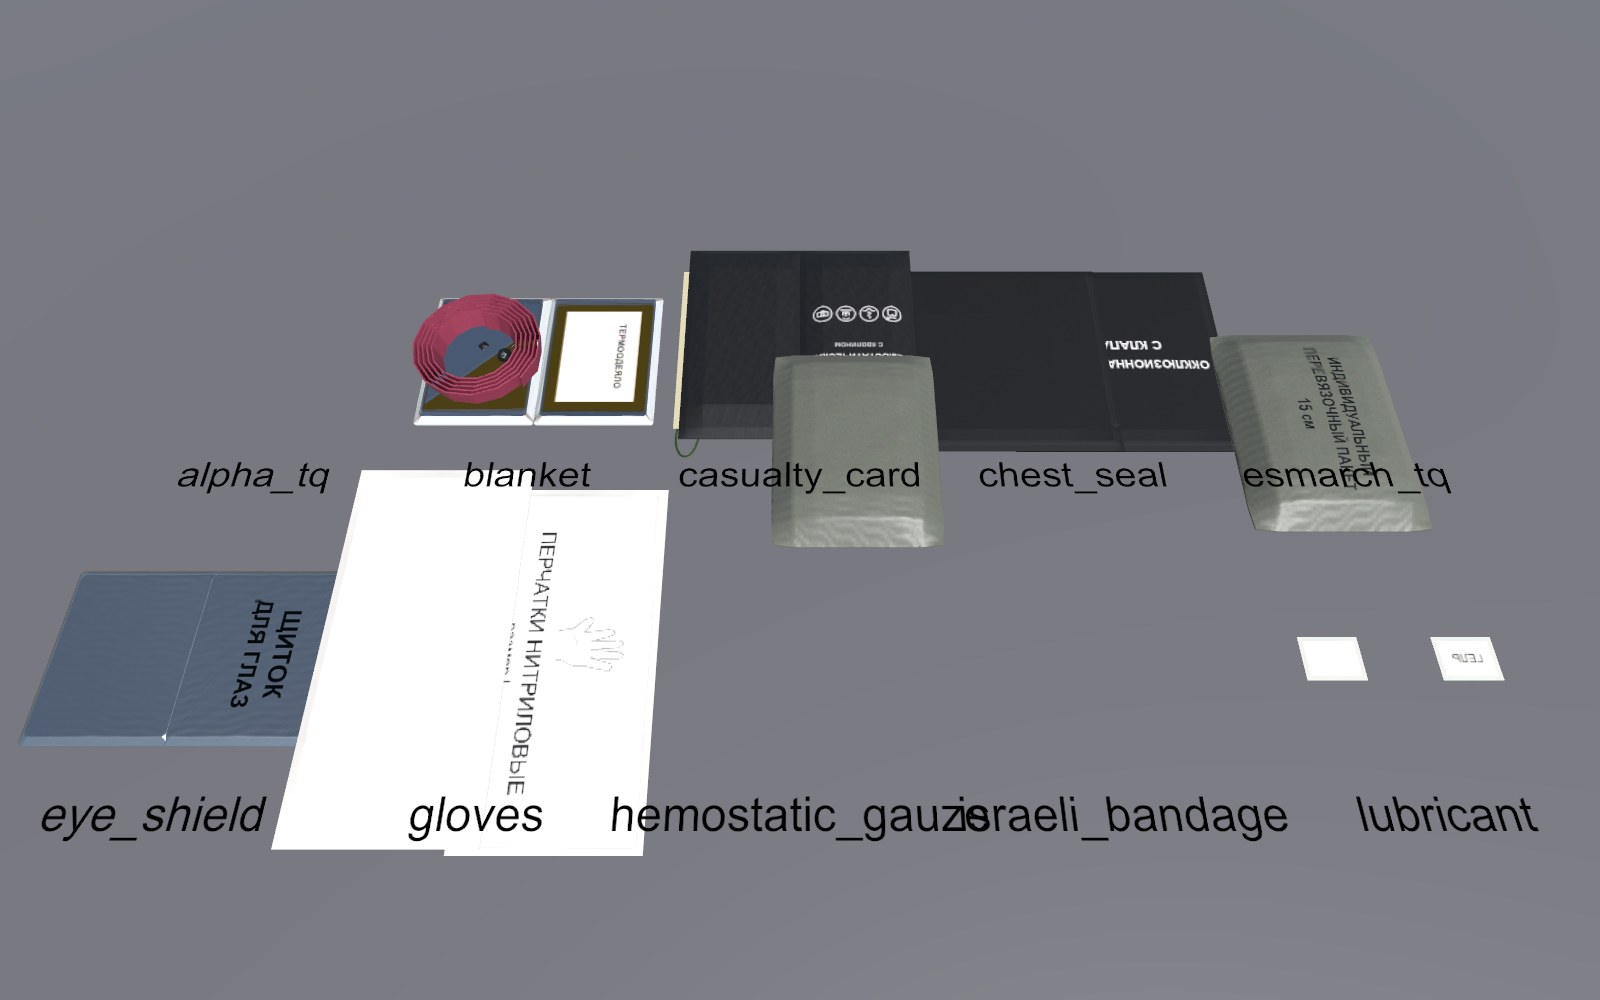
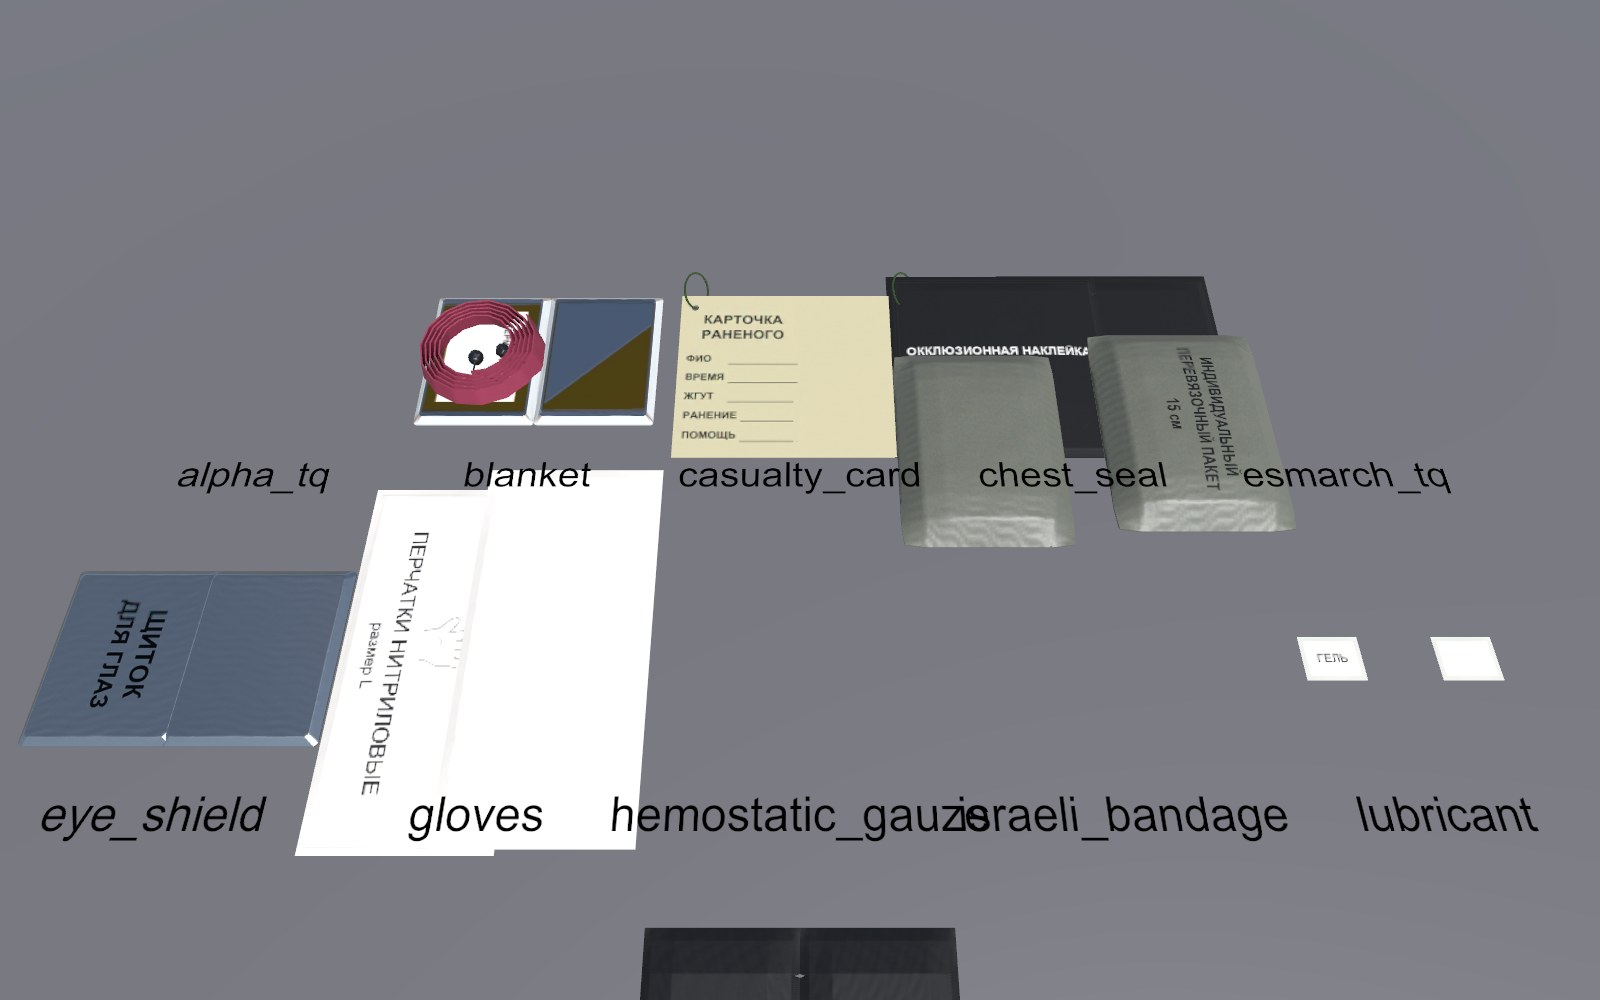
w9d: kit draws 18->2 (combined snapshot when settled), QuestSceneAudit.ArtRules (tris/materials/ASTC<=1024/no mesh colliders)

diff --git a/Assets/Scripts/Runtime/Treatment/IfakArt.cs b/Assets/Scripts/Runtime/Treatment/IfakArt.cs
@@ -106,6 +106,89 @@ namespace FieldMedic.Treatment
             }
         }
 
+        // ------------------------------------------------------------------ draw calls (Quest)
+        readonly Dictionary<int, GameObject> _snapshots = new Dictionary<int, GameObject>();
+        readonly List<Renderer> _parts = new List<Renderer>();
+        /// <summary>Kit draw calls right now (merged snapshot = one per material).</summary>
+        public int DrawCalls
+        {
+            get
+            {
+                int n = 0;
+                foreach (var r in GetComponentsInChildren<Renderer>(false))
+                    if (r.enabled && r.transform.IsChildOf(Root) && IsKitPart(r)) n += r.sharedMaterials.Length;
+                return n;
+            }
+        }
+
+        /// <summary>
+        /// While the kit is folded or fully open nothing in it moves: its ~18 part draws are replaced by one combined
+        /// mesh per material (built once per state, the model is imported readable for this). Moving again (opening)
+        /// shows the parts.
+        /// </summary>
+        public void Settle(bool settled)
+        {
+            if (Root == null) return;
+            if (_parts.Count == 0)
+                foreach (var r in Model.GetComponentsInChildren<MeshRenderer>(true))
+                    if (IsKitPart(r)) _parts.Add(r);
+            int key = Open01 > 0.5f ? 1 : 0;
+            foreach (var kv in _snapshots) kv.Value.SetActive(settled && kv.Key == key);
+            if (!settled) { foreach (var r in _parts) if (r != null) r.enabled = true; return; }
+            if (!_snapshots.TryGetValue(key, out var snap) || snap == null)
+            {
+                snap = Combine(key == 1 ? "Merged_Open" : "Merged_Closed");
+                if (snap == null) return; // meshes not readable: keep the parts
+                _snapshots[key] = snap;
+            }
+            snap.SetActive(true);
+            foreach (var r in _parts) if (r != null) r.enabled = false;
+        }
+
+        /// <summary>The kit's own meshes — not the items riding on its slots, not grab handles.</summary>
+        static bool IsKitPart(Renderer r) =>
+            r.GetComponentInParent<MedItem>(true) == null && r.GetComponentInParent<FieldMedic.Interaction.Grabbable>(true) == null;
+
+        GameObject Combine(string name)
+        {
+            var groups = new Dictionary<Material, List<CombineInstance>>();
+            var toRoot = Root.worldToLocalMatrix;
+            foreach (var r in _parts)
+            {
+                if (r == null || !r.gameObject.activeInHierarchy) continue;
+                var mf = r.GetComponent<MeshFilter>();
+                if (mf == null || mf.sharedMesh == null) continue;
+                if (!mf.sharedMesh.isReadable) { Debug.LogWarning("[FMVR] IFAK combine: mesh not readable " + mf.sharedMesh.name); return null; }
+                var mats = r.sharedMaterials;
+                for (int i = 0; i < mats.Length && i < mf.sharedMesh.subMeshCount; i++)
+                {
+                    if (mats[i] == null) continue;
+                    if (!groups.TryGetValue(mats[i], out var list)) groups[mats[i]] = list = new List<CombineInstance>();
+                    list.Add(new CombineInstance { mesh = mf.sharedMesh, subMeshIndex = i, transform = toRoot * r.transform.localToWorldMatrix });
+                }
+            }
+            var go = new GameObject(name);
+            go.transform.SetParent(Root, false);
+            var subs = new List<CombineInstance>();
+            var order = new List<Material>();
+            foreach (var kv in groups)
+            {
+                var part = new Mesh { name = name + "_" + kv.Key.name, indexFormat = UnityEngine.Rendering.IndexFormat.UInt32 };
+                part.CombineMeshes(kv.Value.ToArray(), true, true);
+                subs.Add(new CombineInstance { mesh = part, transform = Matrix4x4.identity });
+                order.Add(kv.Key);
+            }
+            var mesh = new Mesh { name = name, indexFormat = UnityEngine.Rendering.IndexFormat.UInt32 };
+            mesh.CombineMeshes(subs.ToArray(), false, false);
+            mesh.RecalculateBounds();
+            go.AddComponent<MeshFilter>().sharedMesh = mesh;
+            var mr = go.AddComponent<MeshRenderer>();
+            mr.sharedMaterials = order.ToArray();
+            mr.shadowCastingMode = UnityEngine.Rendering.ShadowCastingMode.Off;
+            Debug.Log($"[FMVR] IFAK {name}: {_parts.Count} parts → {order.Count} draw(s), {mesh.triangles.Length / 3} tris");
+            return go;
+        }
+
         public Transform Slot(string name) => _slots.TryGetValue(name, out var t) ? t : null;
 
         /// <summary>A seat on a delivered slot: item Z along the slot's long axis (+Y of the empty), item Y out of the

diff --git a/Assets/Editor/QuestSceneAudit.cs b/Assets/Editor/QuestSceneAudit.cs
@@ -207,6 +207,51 @@ namespace FieldMedic.EditorTools
             return p;
         }
 
+        // ------------------------------------------------------------------ imported item art (w9d)
+        public const int ArtItemTris = 4000, ArtKitTris = 8000, ArtTotalTris = 60000, ArtMaxTexture = 1024, ArtMaxMaterials = 24;
+
+        /// <summary>Quest budget of Resources/Art (the IFAK + item models): triangles per prefab (all states counted),
+        /// total, ≤ 2 materials per renderer, textures ASTC ≤ 1024 on Android, no mesh colliders.</summary>
+        public static List<string> ArtRules(out string summary)
+        {
+            var p = new List<string>();
+            var prefabs = Resources.LoadAll<GameObject>(FieldMedic.Treatment.ArtModels.ResourceFolder);
+            int total = 0;
+            var mats = new HashSet<Material>();
+            foreach (var pf in prefabs)
+            {
+                if (pf.GetComponentInChildren<MeshCollider>(true) != null) p.Add($"art {pf.name}: mesh collider");
+                int tris = 0;
+                foreach (var mf in pf.GetComponentsInChildren<MeshFilter>(true))
+                    if (mf.sharedMesh != null)
+                        for (int s = 0; s < mf.sharedMesh.subMeshCount; s++) tris += (int)mf.sharedMesh.GetIndexCount(s) / 3;
+                int cap = pf.name == FieldMedic.Treatment.ArtModels.Pouch.id ? ArtKitTris : ArtItemTris;
+                if (tris > cap) p.Add($"art {pf.name}: {tris} tris > {cap}");
+                total += tris;
+                foreach (var r in pf.GetComponentsInChildren<Renderer>(true))
+                {
+                    if (r.sharedMaterials.Length > 2) p.Add($"art {pf.name}/{r.name}: {r.sharedMaterials.Length} materials");
+                    foreach (var m in r.sharedMaterials)
+                    {
+                        if (m == null) { p.Add($"art {pf.name}/{r.name}: missing material"); continue; }
+                        mats.Add(m);
+                        foreach (var prop in new[] { "_BaseMap", "_BumpMap", "_MetallicGlossMap", "_OcclusionMap" })
+                        {
+                            var tex = m.HasProperty(prop) ? m.GetTexture(prop) : null;
+                            if (tex == null || !(AssetImporter.GetAtPath(AssetDatabase.GetAssetPath(tex)) is TextureImporter ti)) continue;
+                            var a = ti.GetPlatformTextureSettings("Android");
+                            if (!a.overridden || a.maxTextureSize > ArtMaxTexture) p.Add($"art texture {tex.name}: Android max {a.maxTextureSize} (≤ {ArtMaxTexture})");
+                            if (!a.format.ToString().StartsWith("ASTC")) p.Add($"art texture {tex.name}: {a.format} (ASTC expected)");
+                        }
+                    }
+                }
+            }
+            if (total > ArtTotalTris) p.Add($"art total {total} tris > {ArtTotalTris}");
+            if (mats.Count > ArtMaxMaterials) p.Add($"art materials {mats.Count} > {ArtMaxMaterials}");
+            summary = $"imported art: {prefabs.Length} prefabs, {total} tris (all states), {mats.Count} materials";
+            return p.Distinct().ToList();
+        }
+
         // ------------------------------------------------------------------ run
         public static void RunBatch()
         {
@@ -253,6 +298,8 @@ namespace FieldMedic.EditorTools
 
             problems.AddRange(ShaderRules());
             problems.AddRange(UrpRules());
+            problems.AddRange(ArtRules(out var artSummary));
+            notes.Add(artSummary);
 
             var sb = new StringBuilder();
             sb.AppendLine("QuestSceneAudit " + System.DateTime.Now.ToString("dd.MM HH:mm"));

diff --git a/Assets/Tests/EditorTools/ArtImportTests.cs b/Assets/Tests/EditorTools/ArtImportTests.cs
@@ -214,45 +214,14 @@ namespace FieldMedic.Tests
             finally { Object.DestroyImmediate(m); }
         }
 
-        /// <summary>Quest budget for the imported kit + items (task 5): tris, materials, ASTC ≤ 1024, no mesh colliders.</summary>
+        /// <summary>Quest budget for the imported kit + items (QuestSceneAudit.ArtRules, run by every build).</summary>
         [Test]
         public void ImportedArt_WithinQuestBudget()
         {
-            var prefabs = Resources.LoadAll<GameObject>(ArtModels.ResourceFolder);
-            if (prefabs.Length == 0) Assert.Ignore("no imported art (SourceAssets/Incoming not imported on this machine)");
-            int total = 0;
-            var mats = new System.Collections.Generic.HashSet<Material>();
-            foreach (var p in prefabs)
-            {
-                Assert.IsNull(p.GetComponentInChildren<MeshCollider>(true), p.name + ": no mesh colliders");
-                int tris = 0;
-                foreach (var mf in p.GetComponentsInChildren<MeshFilter>(true))
-                    for (int s = 0; s < mf.sharedMesh.subMeshCount; s++) tris += (int)mf.sharedMesh.GetIndexCount(s) / 3;
-                Assert.LessOrEqual(tris, p.name == ArtModels.Pouch.id ? 8000 : 4000, p.name + " triangles (all states)");
-                total += tris;
-                foreach (var r in p.GetComponentsInChildren<Renderer>(true))
-                {
-                    Assert.LessOrEqual(r.sharedMaterials.Length, 2, p.name + " materials per renderer");
-                    foreach (var m in r.sharedMaterials)
-                    {
-                        Assert.IsNotNull(m, p.name + " missing material");
-                        mats.Add(m);
-                        foreach (var prop in new[] { "_BaseMap", "_BumpMap", "_MetallicGlossMap" })
-                        {
-                            var tex = m.HasProperty(prop) ? m.GetTexture(prop) : null;
-                            if (tex == null) continue;
-                            var ti = (TextureImporter)AssetImporter.GetAtPath(AssetDatabase.GetAssetPath(tex));
-                            if (ti == null) continue;
-                            var a = ti.GetPlatformTextureSettings("Android");
-                            Assert.IsTrue(a.overridden && a.maxTextureSize <= 1024, tex.name + " Android ≤ 1024");
-                            StringAssert.StartsWith("ASTC", a.format.ToString(), tex.name + " ASTC on Quest");
-                        }
-                    }
-                }
-            }
-            Debug.Log($"[FMVR] imported art: {prefabs.Length} prefabs, {total} tris (all states), {mats.Count} materials");
-            Assert.LessOrEqual(total, 60000, "kit + items, every state counted");
-            Assert.LessOrEqual(mats.Count, 24, "materials (≈ one per delivery)");
+            if (Resources.LoadAll<GameObject>(ArtModels.ResourceFolder).Length == 0) Assert.Ignore("no imported art on this machine");
+            var problems = QuestSceneAudit.ArtRules(out var summary);
+            Debug.Log("[FMVR] " + summary);
+            CollectionAssert.IsEmpty(problems, string.Join(" | ", problems));
         }
 
         // ------------------------------------------------------------------ sky text rule

diff --git a/Assets/Editor/ArtImporter.cs b/Assets/Editor/ArtImporter.cs
@@ -127,7 +127,7 @@ namespace FieldMedic.EditorTools
             PrepareTextures(dir, folder, texAbs);
             AssetDatabase.Refresh();
             ApplyTextureSettings(dirAsset, IsCharacter(folder) ? 2048 : 1024);
-            ApplyModelSettings(fbxAsset);
+            ApplyModelSettings(fbxAsset, folder == ArtModels.Pouch.Source); // the kit combines its parts at runtime (draw calls)
             var model = AssetDatabase.LoadAssetAtPath<GameObject>(fbxAsset);
             if (model == null) { foreach (var r in results) r.notes.Add("model did not import"); return; }
             var mats = BuildMaterials(fbxAsset, dirAsset, folder);
@@ -205,7 +205,7 @@ namespace FieldMedic.EditorTools
         }
 
         /// <summary>Scale 1, no cameras/lights/animation, compressed mesh, no read/write, no colliders from the file.</summary>
-        public static void ApplyModelSettings(string fbxAsset)
+        public static void ApplyModelSettings(string fbxAsset, bool readable = false)
         {
             if (!(AssetImporter.GetAtPath(fbxAsset) is ModelImporter mi)) return;
             mi.globalScale = 1f;
@@ -215,7 +215,7 @@ namespace FieldMedic.EditorTools
             mi.importLights = false;
             mi.importAnimation = false;
             mi.animationType = ModelImporterAnimationType.None;
-            mi.isReadable = false;
+            mi.isReadable = readable;
             mi.meshCompression = ModelImporterMeshCompression.Medium;
             mi.addCollider = false;
             mi.importBlendShapes = false;

diff --git a/Assets/Tests/PlayMode/W9ArtTests.cs b/Assets/Tests/PlayMode/W9ArtTests.cs
@@ -146,6 +146,7 @@ namespace FieldMedic.Tests
             Assert.AreEqual("Slot_AlphaTQ", _pouch.Find(MedItemKind.AlphaTourniquet).homeSlot.parent.name);
             Assert.AreEqual("Slot_Esmarch", _pouch.Find(MedItemKind.EsmarchTourniquet).homeSlot.parent.name);
             Assert.AreEqual(0f, _pouch.Art.Open01, "starts folded on its back panel");
+            Assert.LessOrEqual(_pouch.Art.DrawCalls, 3, "closed kit drawn as one combined mesh per material");
             Assert.IsFalse(_pouch.Find<GauzeItem>().CanBeGrabbedBy(_bot.right), "main pouch locked while closed");
             Assert.IsTrue(_pouch.Find<TourniquetCAT>().CanBeGrabbedBy(_bot.right), "quick pouch always open");
             var back = _pouch.Art.BackPanel.position;
@@ -153,6 +154,7 @@ namespace FieldMedic.Tests
             Assert.IsTrue(_pouch.IsOpen, "ripped open by the pull tab");
             yield return new WaitForSeconds(0.8f);
             Assert.AreEqual(1f, _pouch.Art.Open01, 1e-3f, "panels unfolded");
+            Assert.LessOrEqual(_pouch.Art.DrawCalls, 3, "open kit settled: combined again");
             Assert.Less(Vector3.Distance(back, _pouch.Art.BackPanel.position), 1e-3f, "back panel stays on the vest");
             foreach (var it in _pouch.Items)
                 Assert.Less(Vector3.Distance(it.transform.position, it.homeSlot.position), 0.002f, it.name + " moved with its panel");

diff --git a/Assets/Scripts/Runtime/Treatment/PouchFlap.cs b/Assets/Scripts/Runtime/Treatment/PouchFlap.cs
@@ -37,6 +37,7 @@ namespace FieldMedic.Treatment
 
         IfakArt _art;
         float _open01;
+        bool _moving;
 
         void Build()
         {
@@ -72,6 +73,7 @@ namespace FieldMedic.Treatment
         {
             Lid = _art.Flap;
             _art.SetOpen(0f);
+            _art.Settle(true);
             var tab = _art.PullTab != null ? _art.PullTab : _art.Body;
             var r = tab.GetComponentInChildren<Renderer>();
             Vector3 at = r != null ? r.bounds.center : tab.position;
@@ -92,7 +94,13 @@ namespace FieldMedic.Treatment
             if (_art != null)
             {
                 float goal = IsOpen ? 1f : 0f;
-                if (!Mathf.Approximately(_open01, goal)) { _open01 = Mathf.MoveTowards(_open01, goal, Time.deltaTime / 0.55f); _art.SetOpen(_open01); }
+                if (!Mathf.Approximately(_open01, goal))
+                {
+                    if (!_moving) { _art.Settle(false); _moving = true; }
+                    _open01 = Mathf.MoveTowards(_open01, goal, Time.deltaTime / 0.55f);
+                    _art.SetOpen(_open01);
+                }
+                else if (_moving) { _moving = false; _art.Settle(true); }
                 return;
             }
             float target = IsOpen ? openAngle : 0f;
